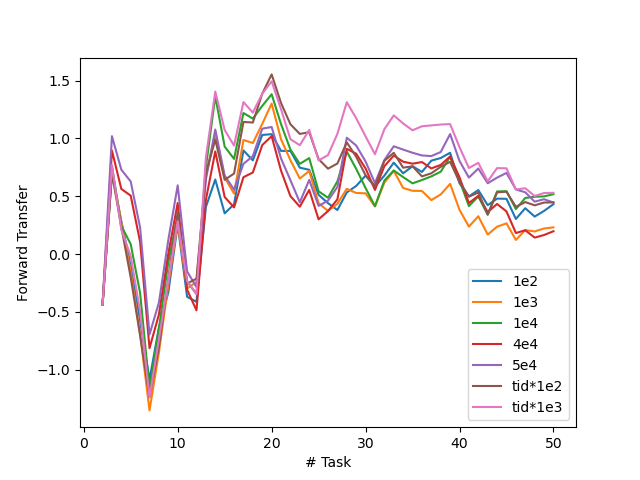
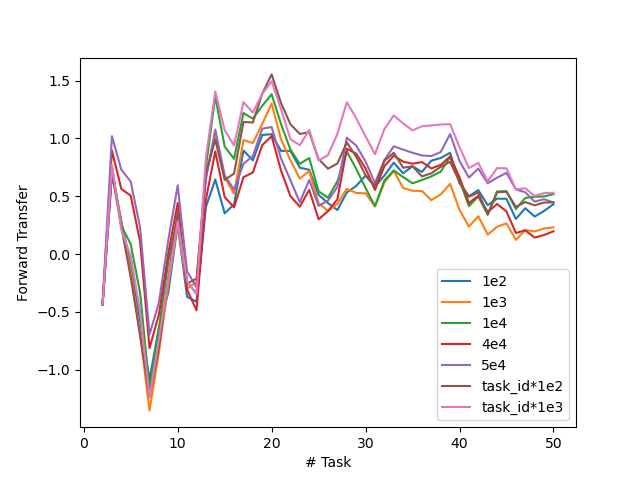
Change legends for lambda visualization

Changed region(s): [[0.6875, 0.5625, 0.875, 0.875]]

diff --git a/visualize.py b/visualize.py
@@ -18,8 +18,8 @@ def get_lmbd_config():
                 '1e4',
                 '4e4',
                 '5e4',
-                'tid*1e2',
-                'tid*1e3']
+                'task_id*1e2',
+                'task_id*1e3']
     model_nbs = [1]*7
 
     return input_files, legends, model_nbs
@@ -185,8 +185,8 @@ def main():
     prefixes = ['lambda_', 'models_']
     config_func = [get_lmbd_config, get_models_config]
 
-    prefix = prefixes[1]
-    input_files, legends, model_nbs = config_func[1]()
+    prefix = prefixes[0]
+    input_files, legends, model_nbs = config_func[0]()
     task_nb = 50
     ###############################################################################################
 
